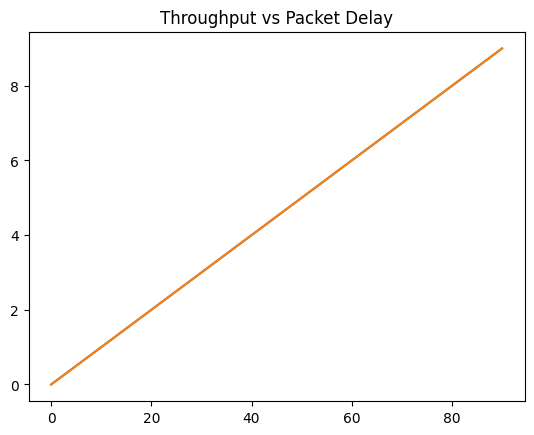
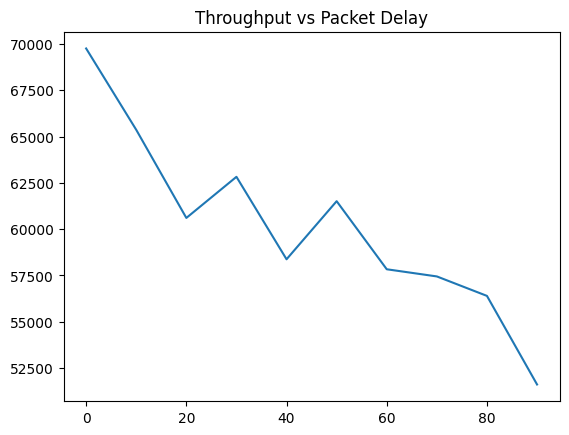
Plots

diff --git a/plotter.py b/plotter.py
@@ -2,8 +2,16 @@ import matplotlib.pyplot as plt
 import numpy as np
 import sys
 import os
+import subprocess
 
 # https://wiki.linuxfoundation.org/networking/netem
+
+
+def runApplication():
+    os.system(f"fuser -k 8000/udp")
+    p = os.popen("/usr/bin/python3 /home/divyanshu/net/a2/server.py")
+    os.system("/home/divyanshu/net/a2/application LICENSE")
+    os.system(f"fuser -k 8000/udp")
 
 
 def packetLoss(packet_loss):
@@ -29,22 +37,24 @@ def reset_conditions():
 
 def plot_loss(axis):
     throughput = []
-    pcktLoss = [10 * loss for loss in range(10)]
-    for loss in range(10):
+    overallstats = ""
+    pcktLoss = [10 * loss for loss in range(7)]
+    for loss in range(7):
         packetLoss(pcktLoss[loss])
         # run client
+        runApplication()
 
         # get throughput
         f = open("client-stats.txt", "r")
         totalTime, sz = None, None
-        for line in f.readlines():
-            vals = [float(i) for i in line.split(" ")]
-            sz = vals[0]
-            totalTime = vals[1]
+        stats = f.read().split(" ")
+        totalTime = float(stats[1])
+        overallstats += str(f"\n{totalTime}")
+        sz = int(stats[0])
         throughput.append(sz / totalTime)
-
     axis.plot(pcktLoss, throughput)
     axis.set_title("Throughput vs Packet Loss")
+    print(overallstats)
 
 
 def plot_delay(axis):
@@ -53,7 +63,7 @@ def plot_delay(axis):
     for delay in range(10):
         packetDelay(pcktDelay[delay])
         # get throughput
-
+        runApplication()
         f = open("client-stats.txt", "r")
         totalTime, sz = None, None
         for line in f.readlines():
@@ -72,6 +82,7 @@ def plot_reorder(axis):
 
         packetReorder(pcktReorder[reorder])
         # get throughput
+        runApplication()
         f = open("client-stats.txt", "r")
         totalTime, sz = None, None
         for line in f.readlines():
@@ -87,13 +98,14 @@ def plot_corrupt(axis):
     throughput = []
     pcktCorrput = [10 * corrput for corrput in range(10)]
     for corrput in range(10):
-        packetCorrupt(pcktCorrput[corrput])
-
+        packetCorruption(pcktCorrput[corrput])
         # get throughput
+        runApplication()
         f = open("client-stats.txt", "r")
         totalTime, sz = None, None
         stats = f.read().split(" ")
         totalTime = float(stats[1])
+        # overallstats += str(f"\n{totalTime}")
         sz = int(stats[0])
         throughput.append(sz / totalTime)
     axis.plot(pcktCorrput, throughput)
@@ -102,15 +114,15 @@ def plot_corrupt(axis):
 
 if __name__ == "__main__":
     figure, axis = plt.subplots(1, 1)
-    plot_loss(axis)
-    plt.savefig("lossPlot.png", bbox_inches="tight")
+    # plot_loss(axis)
+    # plt.savefig("lossPlot.png", bbox_inches="tight")
+    # reset_conditions()
+    # plot_delay(axis)
+    # plt.savefig("delayPlot.png", bbox_inches="tight")
+    # reset_conditions()
+    # plot_reorder(axis)
+    # plt.savefig("reorderPlot.png", bbox_inches="tight")
     reset_conditions()
-    plot_delay(axis)
-    plt.savefig("delayPlot.png", bbox_inches="tight")
-    reset_conditions()
-    plot_delay(axis)
-    plt.savefig("reorderPlot.png", bbox_inches="tight")
-    reset_conditions()
-    plot_delay(axis)
+    plot_corrupt(axis)
     plt.savefig("corruptPlot.png", bbox_inches="tight")
     reset_conditions()

diff --git a/client.py b/client.py
@@ -11,6 +11,8 @@ from header import Header, Packet
 from collections import deque
 import copy
 from sortedcontainers import SortedSet
+import os
+import sys
 
 
 def keySort(l: Packet):
@@ -283,7 +285,24 @@ class Client:
         )
         self.sendCall(finalFinPacket.as_bytes(), self.server_loc)
         logClient("Closing Connection BYE!")
-        self.connectionState = ConnState.CLOSED
+        # self.can_proceed_fin.clear()
+        self.has_receive_buffer.set()
+        self.has_window_buffer.set()
+        # self.acquired_window_buffer.release()
+
+        # self.process_packet_thread._stop()
+        # self.process_packet_thread.join()
+        pid = os.getpid()
+
+        f = open("client-stats.txt", "w")
+        timeTaken = time.time() - self.starttime
+        stats = f"{self.debugDataSent} {timeTaken}"
+        logClient("Statistics saved")
+        f.write(stats)
+        f.close()
+
+        os.system(f"kill -9 {pid}")
+        # self.acquired_window_buffer.release()
 
     def tryConnect(self, packet):
         """
@@ -425,18 +444,14 @@ def clientApi(data: str):
     client = Client()
     while client.connectionState != ConnState.CONNECTED:
         pass
-    s = time.time()
-    f = open("client-stats.txt", "w")
+    client.starttime = time.time()
     client.fileTransfer(data)
-    timeTaken = time.time() - s
-    stats = f"{client.debugDataSent} {timeTaken}"
-    logClient("Statistics saved")
-    f.write(stats)
-    f.close()
+
     # time.sleep(0.1)
     # client.fileTransfer("A"*1000)
-    # time.sleep(40)
     client.close()
+    exit()
+
     # time.sleep(30)
     # print("gothere")
     # a = ""
@@ -445,7 +460,6 @@ def clientApi(data: str):
     #     a += i.data.decode("utf-8")
     #     # print(i.data.decode('utf-8'), end="")
     # print(a)
-    exit(0)
 
 
 if __name__ == "__main__":

diff --git a/server.py b/server.py
@@ -397,15 +397,19 @@ if __name__ == "__main__":
     while serv.connectionState != ConnState.CONNECTED:
         pass
     # print("Hey: ")
-    time.sleep(10)
-    serv.fileTransfer("ABCDEFG" * 1000)
-    time.sleep(30)
+    # time.sleep(10)
+    # serv.fileTransfer("ABCDEFG" * 1000)
+    # time.sleep(30)
     a = ""
     print(serv.received_data_packets)
     for i in serv.received_data_packets:
         a += i.data.decode("utf-8")
         # print(i.data.decode('utf-8'), end="")
-    f = open("data.txt", "w")
-    f.write(a)
-    f.close()
+    # f = open("data.txt", "w")
+    # f.write(a)
+    # f.close()
+
+    f = open("server-stats.txt", "w")
+
     print("DONE! OK OK OK !! ( maybe )")
+    exit(0)

diff --git a/config.py b/config.py
@@ -11,7 +11,7 @@ FIN_FLAG = b"\x20"
 FINACK_FLAG = b"\x60"
 SOCKET_TIMEOUT = 0.5
 # TIME_WAIT_TIMEOUT = 0.2
-MAX_FAIL_COUNT = 30
+MAX_FAIL_COUNT = 1000
 PACKET_TIMEOUT = 0.5
 
 # 1. no connection
